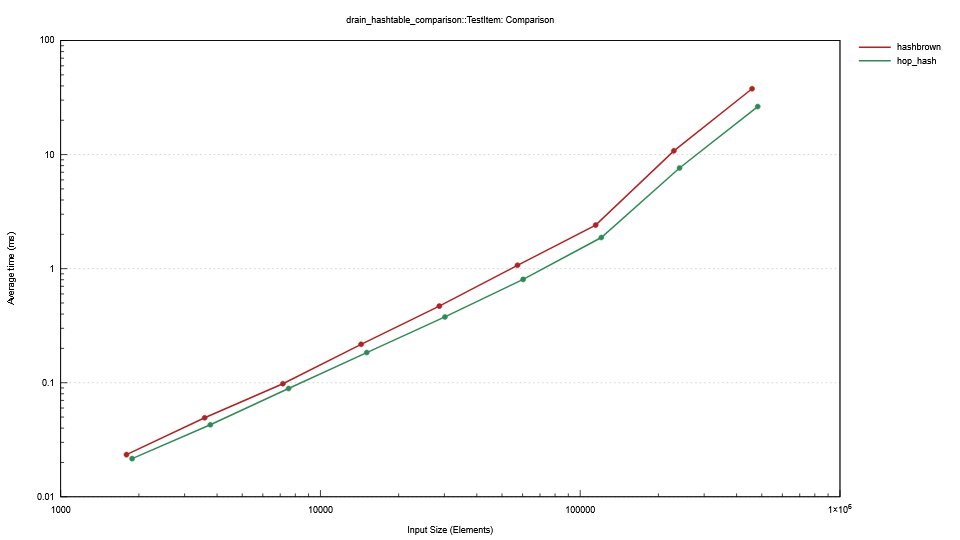
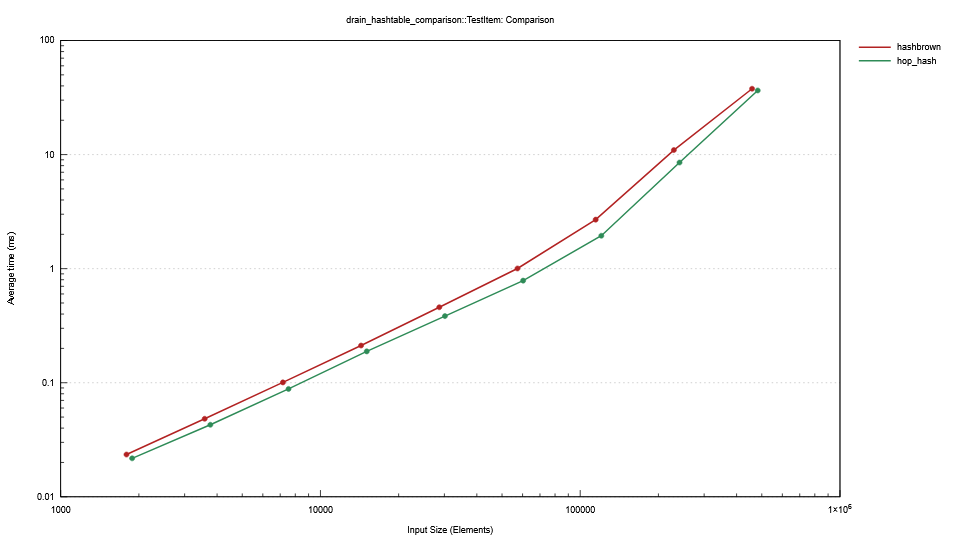
Add safety comment to drain.
Update Drain benchmark table results

diff --git a/src/hash_table.rs b/src/hash_table.rs
@@ -886,6 +886,11 @@ impl<V> HashTable<V> {
         let old_populated = self.tags_ptr();
         let mut occupied = Box::new_uninit_slice(old_populated.len());
 
+        // SAFETY: We have ensured that `old_populated` and `occupied` point to
+        // valid memory regions of the same length. We copy the tags from
+        // `old_populated` to `occupied`, then zero out the hopmap and mark all buckets
+        // as empty so we don't double-drop. Finally, we assume that `occupied`
+        // is initialized since we just copied data into it.
         let occupied = unsafe {
             core::ptr::copy_nonoverlapping(
                 old_populated.as_ref().as_ptr(),

diff --git a/benches/README.md b/benches/README.md
@@ -86,6 +86,11 @@ size of the map the operations are performed on, but is not exactly equal to it.
 generated after-the-fact from the benchmark results, and the exact table sizes aren't recorded in
 the benchmarks, but the number of operations is.
 
+Keep in mind while reviewing these results that benchmarks on my machine can vary by up to 5%
+(although <3% is typical) between runs even though I'm running these on a quiet system. Also keep in
+mind that hop-hash is running at a load factor of 92%, while hashbrown is running at a load factor
+of 87.5%.
+
 | Benchmark                    | Test Item     |  O(Ops) |    hashbrown |     hop_hash | Relative Performance |
 | ---------------------------- | ------------- | ------: | -----------: | -----------: | -------------------- |
 | Churn                        | TestItem      |    4096 |  18.15 ns/op |  18.75 ns/op | 0.97x                |
@@ -132,15 +137,15 @@ the benchmarks, but the number of operations is.
 | Collect Find Preallocated    | LargeTestItem |   32768 | 204.84 ns/op | 244.48 ns/op | 0.84x                |
 | Collect Find Preallocated    | LargeTestItem |   65536 | 255.43 ns/op | 302.75 ns/op | 0.84x                |
 | <hr/>                        |               |         |              |              |                      |
-| Drain                        | TestItem      |    2048 |  13.07 ns/op |  11.46 ns/op | 1.14x                |
-| Drain                        | TestItem      |    4096 |  13.76 ns/op |  11.36 ns/op | 1.21x                |
-| Drain                        | TestItem      |    8192 |  13.67 ns/op |  11.80 ns/op | 1.16x                |
-| Drain                        | TestItem      |   16384 |  15.15 ns/op |  12.20 ns/op | 1.24x                |
-| Drain                        | TestItem      |   32768 |  16.37 ns/op |  12.52 ns/op | 1.31x                |
-| Drain                        | TestItem      |   65536 |  18.66 ns/op |  13.35 ns/op | 1.40x                |
-| Drain                        | TestItem      |  131072 |  21.00 ns/op |  15.55 ns/op | 1.35x                |
-| Drain                        | TestItem      |  262144 |  47.00 ns/op |  31.63 ns/op | 1.49x                |
-| Drain                        | TestItem      |  524288 |  82.31 ns/op |  54.62 ns/op | 1.51x                |
+| Drain                        | TestItem      |    2048 |  13.29 ns/op |  11.34 ns/op | 1.17x                |
+| Drain                        | TestItem      |    4096 |  13.62 ns/op |  11.20 ns/op | 1.22x                |
+| Drain                        | TestItem      |    8192 |  14.05 ns/op |  11.70 ns/op | 1.20x                |
+| Drain                        | TestItem      |   16384 |  14.97 ns/op |  12.23 ns/op | 1.22x                |
+| Drain                        | TestItem      |   32768 |  16.00 ns/op |  12.16 ns/op | 1.32x                |
+| Drain                        | TestItem      |   65536 |  17.64 ns/op |  12.76 ns/op | 1.38x                |
+| Drain                        | TestItem      |  131072 |  23.23 ns/op |  15.42 ns/op | 1.51x                |
+| Drain                        | TestItem      |  262144 |  48.55 ns/op |  33.98 ns/op | 1.43x                |
+| Drain                        | TestItem      |  524288 |  81.42 ns/op |  67.28 ns/op | 1.21x                |
 | <hr/>                        |               |         |              |              |                      |
 | Iteration                    | TestItem      |    2048 |   0.42 ns/op |   0.39 ns/op | 1.08x                |
 | Iteration                    | TestItem      |    4096 |   0.44 ns/op |   0.39 ns/op | 1.11x                |
